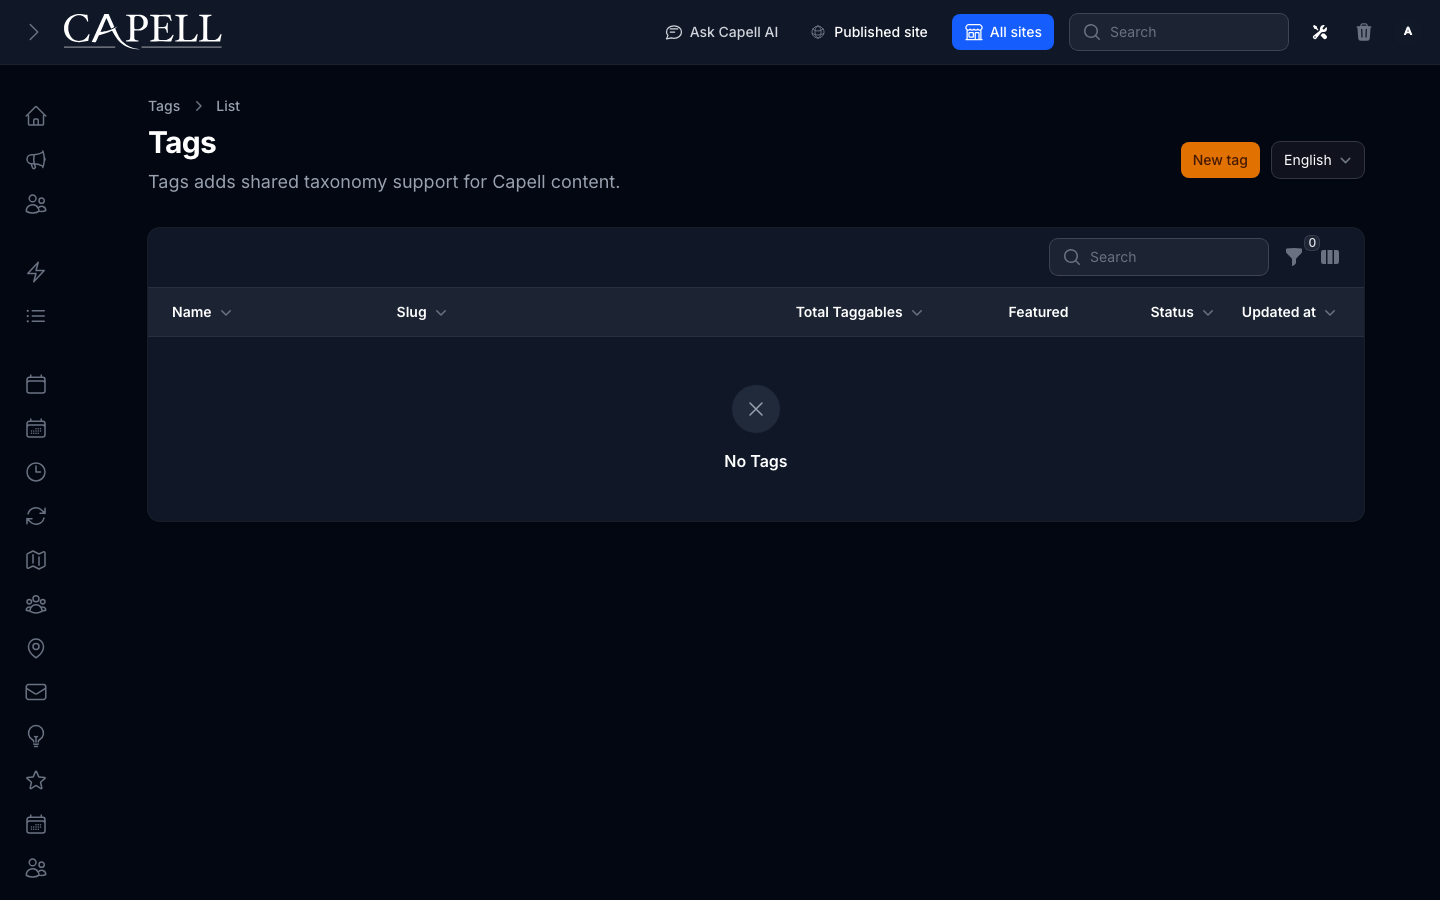
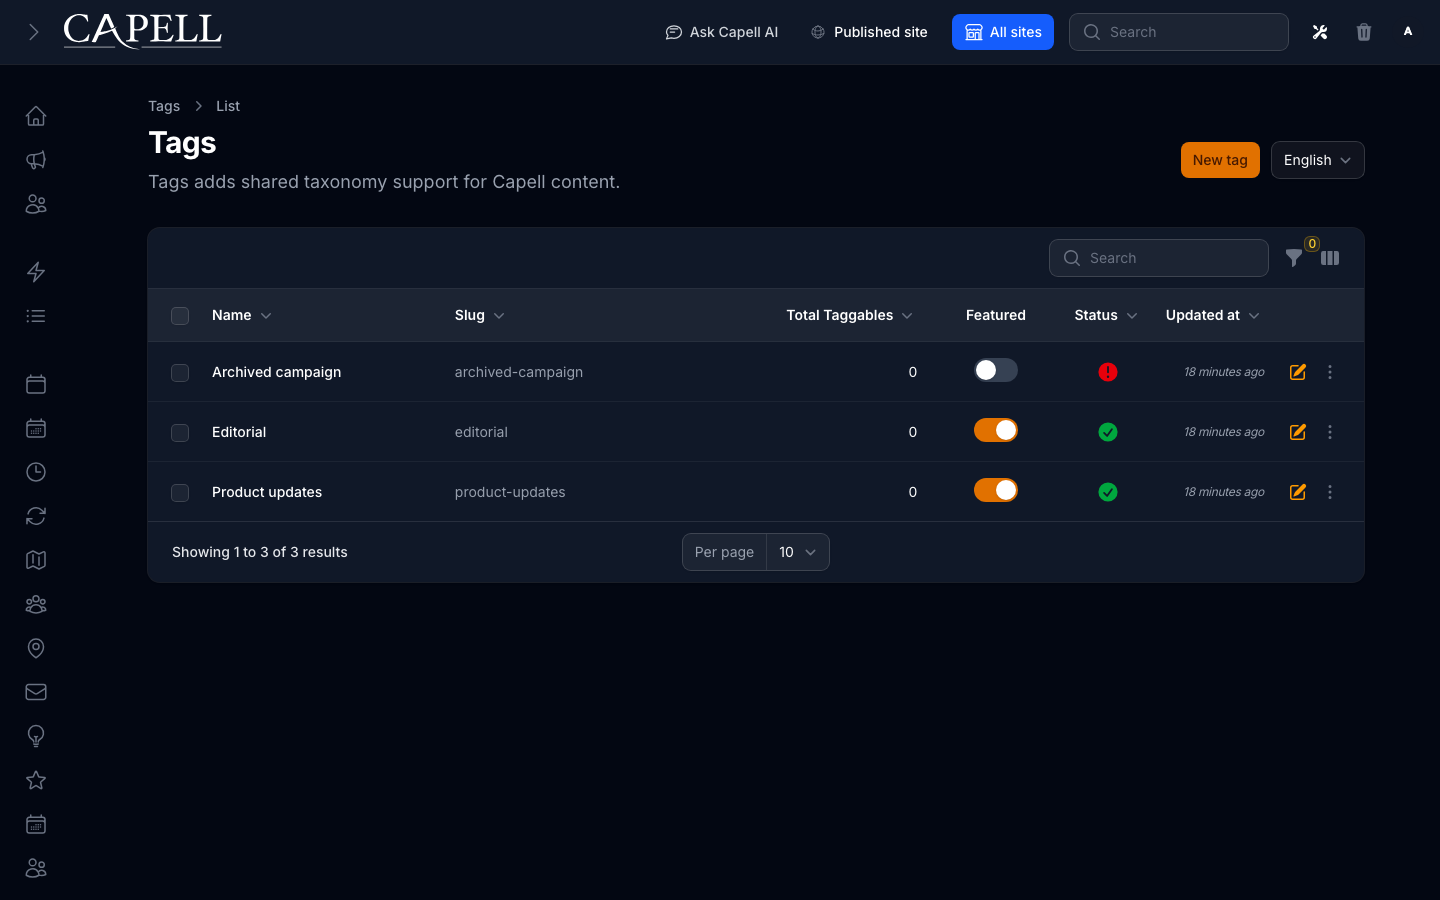
Release v1.0.18

diff --git a/README.md b/README.md
@@ -37,10 +37,11 @@ Screenshot contract: `docs/screenshots.json`.
 
 ![Create/edit tag form](docs/screenshots/create-edit-tag-form.png)
 
-- Tags admin index (admin, required evidence).
+- Tags admin index (admin, required authentic evidence).
 - Create/edit tag form (admin, required evidence).
 - Tag relation manager showing tagged pages (admin, supplementary evidence).
 - Article or page form using TagsInput (admin, supplementary evidence).
+- Tags admin index with admin sidebar menu open (admin, supplementary evidence).
 
 ## Technical Shape
 
@@ -98,7 +99,7 @@ Screenshot contract: `docs/screenshots.json`.
 
 1. Install the package: `composer require capell-app/tags`.
 2. Run the required setup: `php artisan capell:tags-install`.
-3. Open a verified package admin surface and confirm Tags is available.
+3. Open the package admin surface at `/tags` and confirm Tags is available.
 
 ## Next Steps
 
